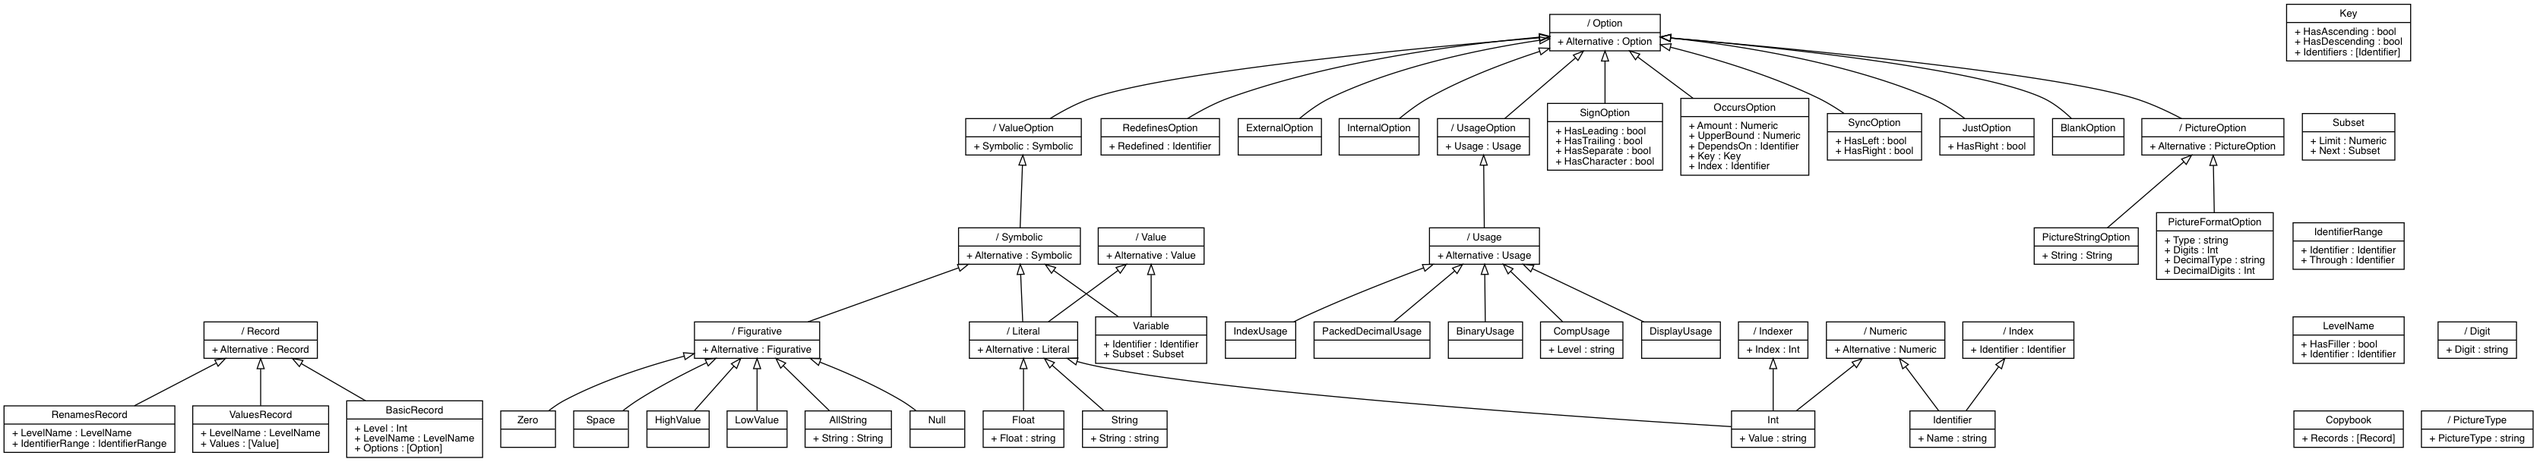
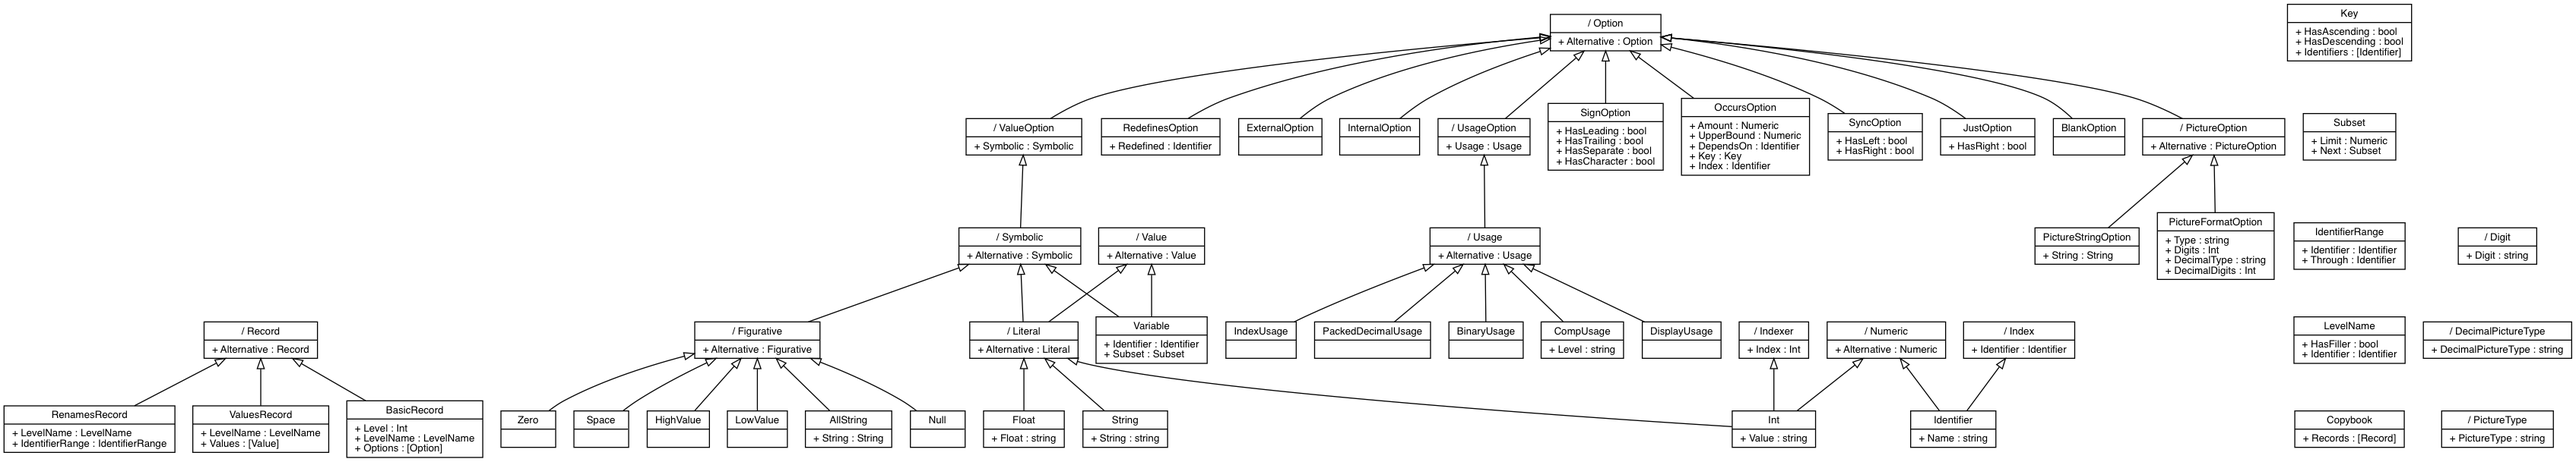
improved definition of decimal part of picture

diff --git a/example/cobol/test_records.cs b/example/cobol/test_records.cs
@@ -73,4 +73,29 @@ BasicRecord(
     );
   }
 
+  [Test]
+  public void BasicRecordWithPicAndSignOption() {
+    this.testSingleSentence(
+      "10 FIELD PIC S9(18) SIGN TRAILING SEPARATE.",
+      @"
+BasicRecord(
+  Level=Int(Value=10),
+  LevelName=LevelName(HasFiller=False,Identifier=Identifier(Name=FIELD)),
+  Options=[
+    PictureFormatOption(
+      Type=S9,      Digits=Int(Value=18),
+      DecimalType=, DecimalDigits= 
+    ),
+    SignOption(
+      HasLeading   = False,
+      HasTrailing  = True,
+      HasSeparate  = True,
+      HasCharacter = False
+    )
+  ]
+)
+"
+    );
+  }
+
 }
